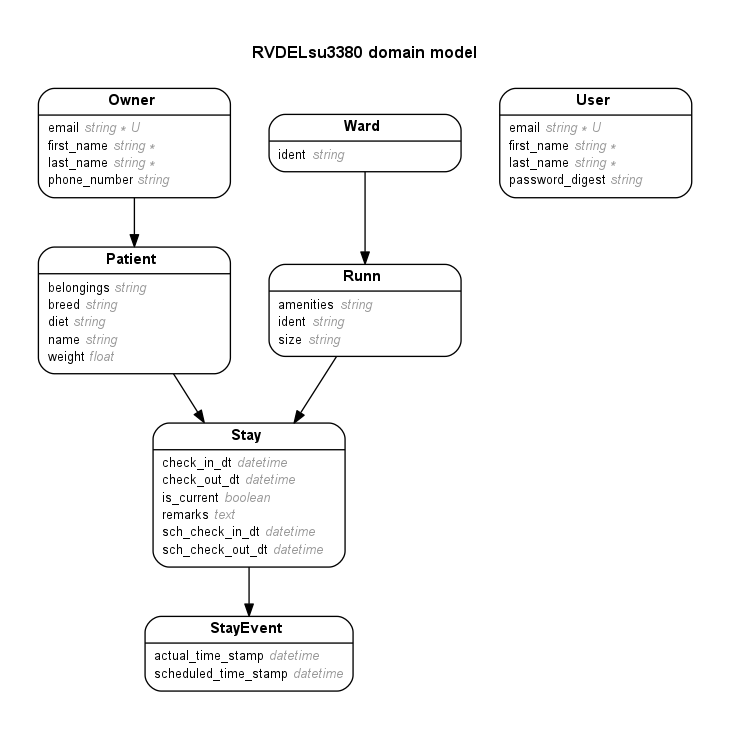
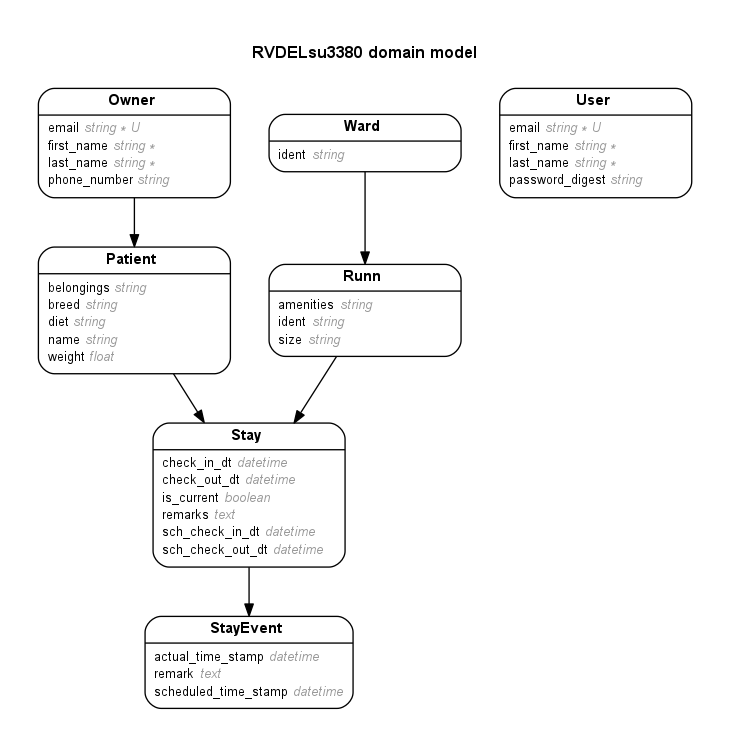
Add remark field to StayEvent
- Bc all the subclasses and generic types will need a remark field.
- Figured this should go in this here superclass.

    rails generate migration add_remark_to_stay_event \
      remark:text

      invoke  active_record
      create    db/migrate/20151118143225_add_remark_to_stay_event.rb

diff --git a/db/schema.rb b/db/schema.rb
@@ -11,7 +11,7 @@
 #
 # It's strongly recommended that you check this file into your version control system.
 
-ActiveRecord::Schema.define(version: 20151118123410) do
+ActiveRecord::Schema.define(version: 20151118143225) do
 
   # These are extensions that must be enabled in order to support this database
   enable_extension "plpgsql"
@@ -55,6 +55,7 @@ ActiveRecord::Schema.define(version: 20151118123410) do
     t.datetime "actual_time_stamp"
     t.datetime "created_at",           null: false
     t.datetime "updated_at",           null: false
+    t.text     "remark"
   end
 
   add_index "stay_events", ["stay_id"], name: "index_stay_events_on_stay_id", using: :btree

diff --git a/db/migrate/20151118143225_add_remark_to_stay_event.rb b/db/migrate/20151118143225_add_remark_to_stay_event.rb
@@ -1,0 +1,5 @@
+class AddRemarkToStayEvent < ActiveRecord::Migration
+  def change
+    add_column :stay_events, :remark, :text
+  end
+end
